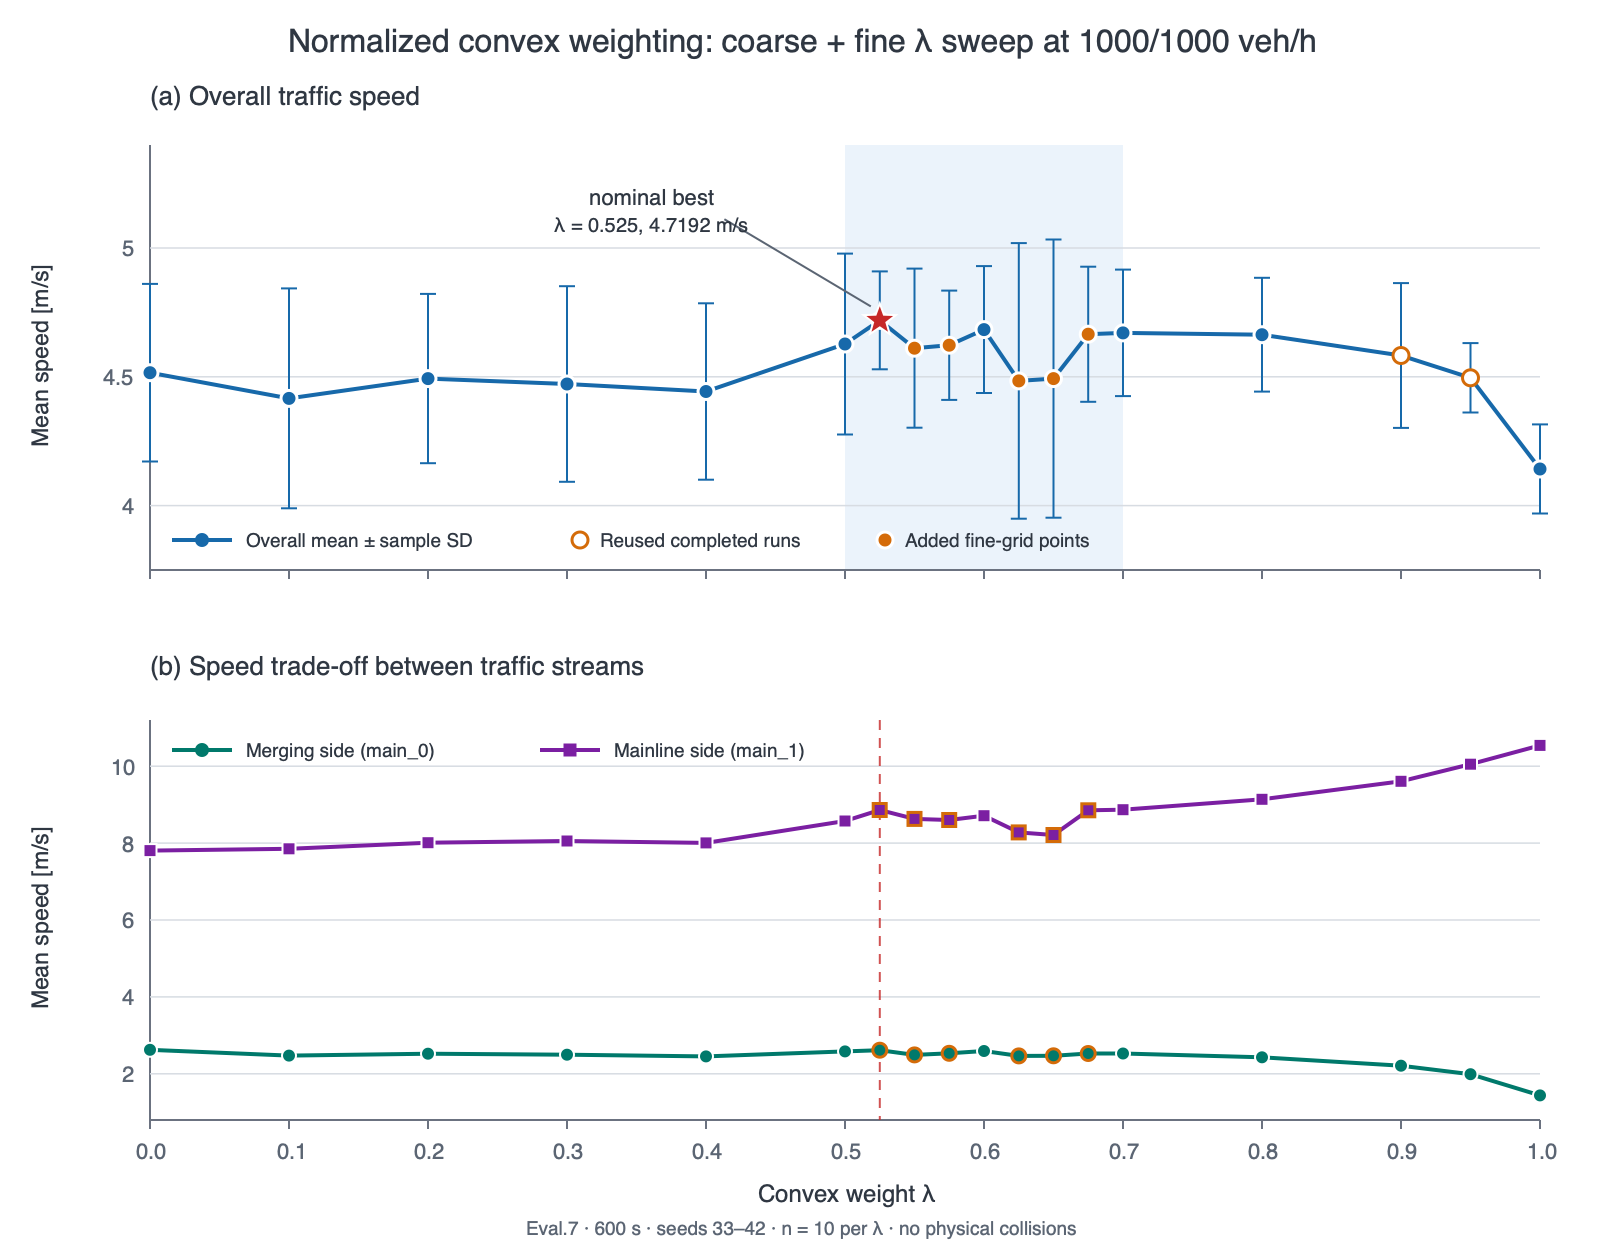
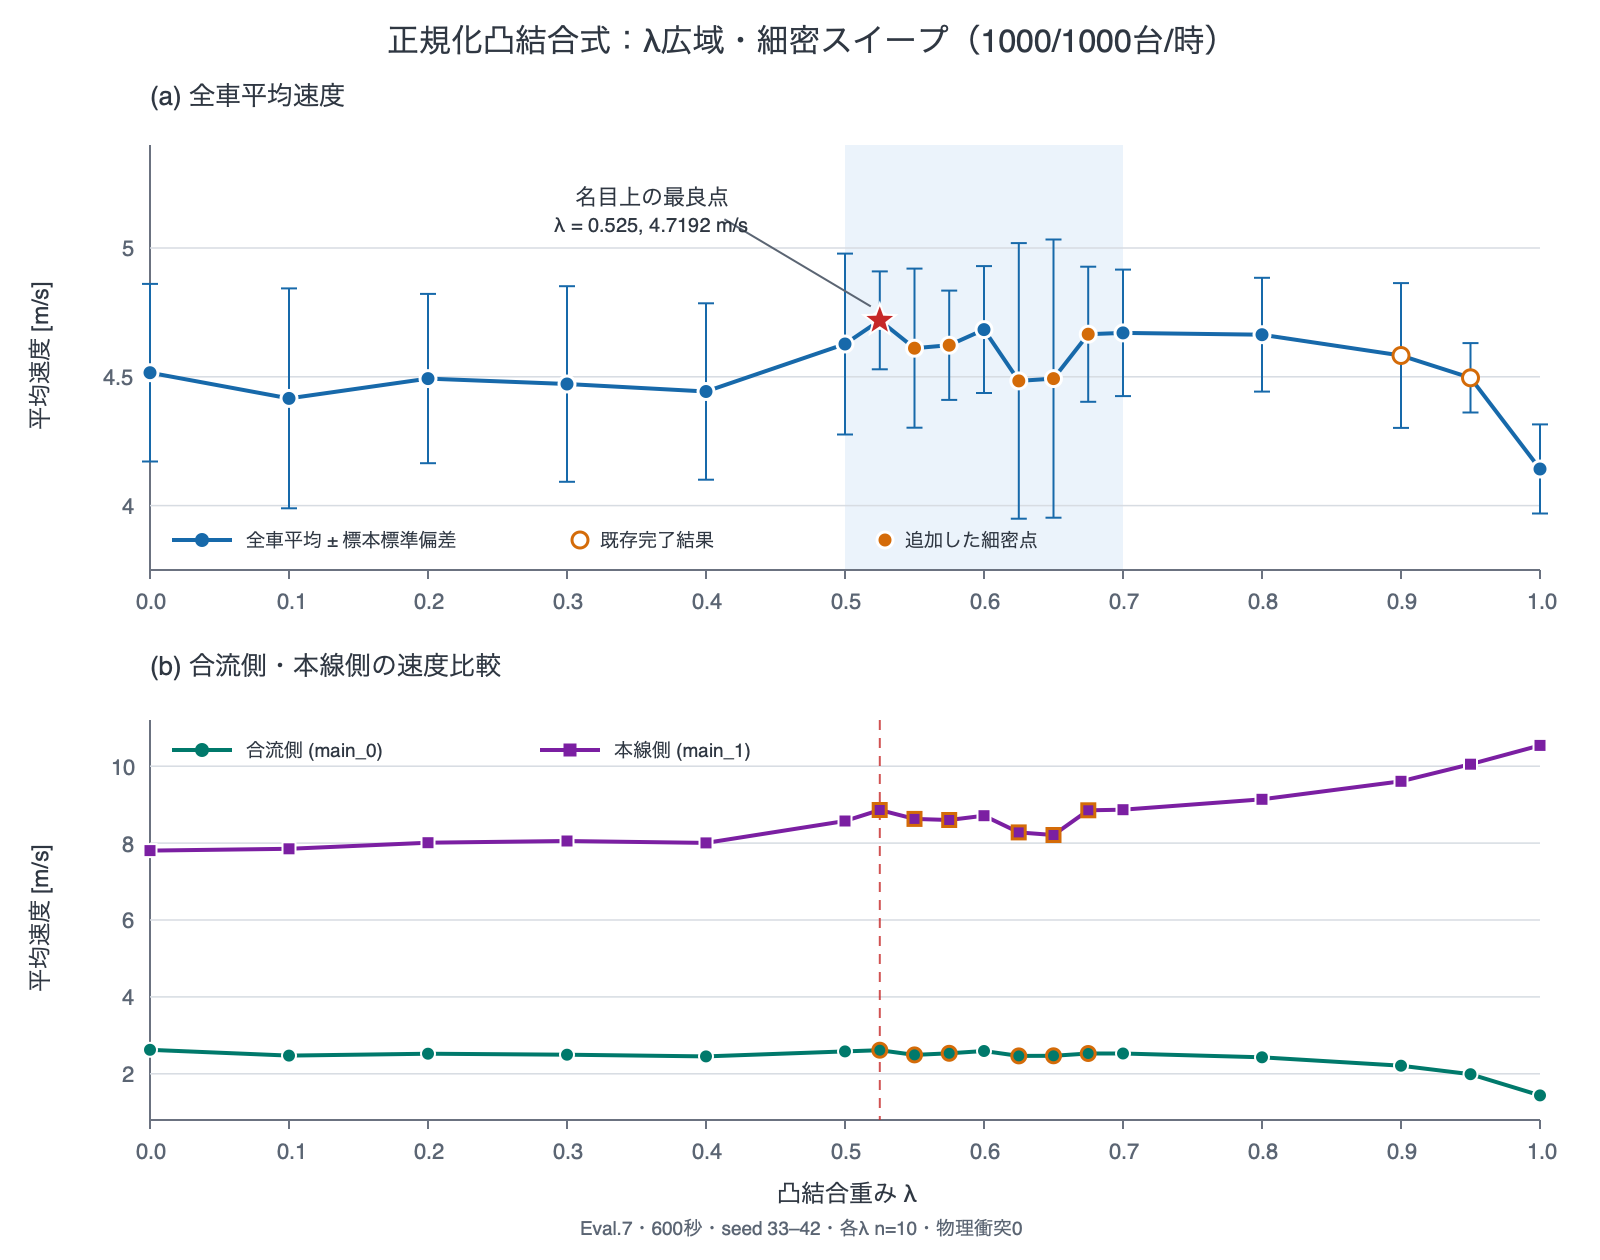
docs: localize combined lambda plot

diff --git a/scripts/plot_lambda_wide_sweep.py b/scripts/plot_lambda_wide_sweep.py
@@ -171,7 +171,7 @@ def render_svg(
         f'<rect x="0" y="0" width="{WIDTH}" height="{HEIGHT}" fill="#FFFFFF"/>',
         '<g font-family="-apple-system, BlinkMacSystemFont, Segoe UI, Helvetica, Arial, sans-serif">',
         svg_text(
-            "Normalized convex weighting: coarse + fine λ sweep at 1000/1000 veh/h"
+            "正規化凸結合式：λ広域・細密スイープ（1000/1000台/時）"
             if combined
             else "Normalized convex weighting: λ sweep at 1000/1000 veh/h",
             WIDTH / 2,
@@ -180,13 +180,36 @@ def render_svg(
             anchor="middle",
             weight=700,
         ),
-        svg_text("(a) Overall traffic speed", LEFT, 105, size=26, weight=700),
+        svg_text(
+            "(a) 全車平均速度" if combined else "(a) Overall traffic speed",
+            LEFT,
+            105,
+            size=26,
+            weight=700,
+        ),
     ]
     band_x = x_position(0.5)
     band_high = 0.7 if combined else 0.8
     parts.append(f'<rect x="{band_x:.1f}" y="{top_a}" width="{x_position(band_high) - band_x:.1f}" height="{bottom_a - top_a:.1f}" fill="#E8F1FA" opacity="0.85"/>')
-    draw_axes(parts, top=top_a, bottom=bottom_a, y_ticks=[4.0, 4.5, 5.0], y_low=y_a_low, y_high=y_a_high, show_x_labels=False)
-    parts.append(svg_text("Mean speed [m/s]", 48, (top_a + bottom_a) / 2, size=23, anchor="middle", rotate=-90))
+    draw_axes(
+        parts,
+        top=top_a,
+        bottom=bottom_a,
+        y_ticks=[4.0, 4.5, 5.0],
+        y_low=y_a_low,
+        y_high=y_a_high,
+        show_x_labels=combined,
+    )
+    parts.append(
+        svg_text(
+            "平均速度 [m/s]" if combined else "Mean speed [m/s]",
+            48,
+            (top_a + bottom_a) / 2,
+            size=23,
+            anchor="middle",
+            rotate=-90,
+        )
+    )
 
     overall_points = [(x_position(row["lambda"]), y_position(row["overall"], y_a_low, y_a_high, top_a, bottom_a)) for row in rows]
     parts.append(polyline(overall_points, blue))
@@ -212,24 +235,24 @@ def render_svg(
     label_x = x_position(0.36 if combined else 0.43)
     label_y = y_position(5.17, y_a_low, y_a_high, top_a, bottom_a)
     parts.append(f'<line x1="{label_x + 74:.1f}" y1="{label_y + 15:.1f}" x2="{best_x - 9:.1f}" y2="{best_y - 14:.1f}" stroke="#5B6573" stroke-width="2"/>')
-    parts.append(svg_text("nominal best" if combined else "coarse-grid best", label_x, label_y, size=22, anchor="middle", weight=600))
+    parts.append(svg_text("名目上の最良点" if combined else "coarse-grid best", label_x, label_y, size=22, anchor="middle", weight=600))
     best_label = f"{best_lambda:.3f}" if combined else f"{best_lambda:.2f}"
     parts.append(svg_text(f"λ = {best_label}, {best['overall']:.4f} m/s", label_x, label_y + 27, size=20, anchor="middle"))
 
     legend_y = 540
     parts.append(f'<line x1="{LEFT + 22}" y1="{legend_y}" x2="{LEFT + 82}" y2="{legend_y}" stroke="{blue}" stroke-width="4"/>')
     parts.append(f'<circle cx="{LEFT + 52}" cy="{legend_y}" r="7" fill="{blue}"/>')
-    parts.append(svg_text("Overall mean ± sample SD", LEFT + 96, legend_y + 7, size=19))
+    parts.append(svg_text("全車平均 ± 標本標準偏差" if combined else "Overall mean ± sample SD", LEFT + 96, legend_y + 7, size=19))
     parts.append(f'<circle cx="{LEFT + 430}" cy="{legend_y}" r="8" fill="white" stroke="{orange}" stroke-width="3"/>')
-    parts.append(svg_text("Reused completed runs", LEFT + 450, legend_y + 7, size=19))
+    parts.append(svg_text("既存完了結果" if combined else "Reused completed runs", LEFT + 450, legend_y + 7, size=19))
     if combined:
         parts.append(f'<circle cx="{LEFT + 735}" cy="{legend_y}" r="8" fill="{orange}" stroke="white" stroke-width="3"/>')
-        parts.append(svg_text("Added fine-grid points", LEFT + 755, legend_y + 7, size=19))
+        parts.append(svg_text("追加した細密点", LEFT + 755, legend_y + 7, size=19))
 
-    parts.append(svg_text("(b) Speed trade-off between traffic streams", LEFT, 675, size=26, weight=700))
+    parts.append(svg_text("(b) 合流側・本線側の速度比較" if combined else "(b) Speed trade-off between traffic streams", LEFT, 675, size=26, weight=700))
     draw_axes(parts, top=top_b, bottom=bottom_b, y_ticks=[2, 4, 6, 8, 10], y_low=y_b_low, y_high=y_b_high, show_x_labels=True)
-    parts.append(svg_text("Mean speed [m/s]", 48, (top_b + bottom_b) / 2, size=23, anchor="middle", rotate=-90))
-    parts.append(svg_text("Convex weight λ", (LEFT + RIGHT) / 2, bottom_b + 82, size=24, anchor="middle"))
+    parts.append(svg_text("平均速度 [m/s]" if combined else "Mean speed [m/s]", 48, (top_b + bottom_b) / 2, size=23, anchor="middle", rotate=-90))
+    parts.append(svg_text("凸結合重み λ" if combined else "Convex weight λ", (LEFT + RIGHT) / 2, bottom_b + 82, size=24, anchor="middle"))
     parts.append(f'<line x1="{best_x:.1f}" y1="{top_b}" x2="{best_x:.1f}" y2="{bottom_b}" stroke="{red}" stroke-width="2" stroke-dasharray="10 8" opacity="0.8"/>')
 
     merge_points = [(x_position(row["lambda"]), y_position(row["merge"], y_b_low, y_b_high, top_b, bottom_b)) for row in rows]
@@ -246,11 +269,11 @@ def render_svg(
 
     parts.append(f'<line x1="{LEFT + 22}" y1="{top_b + 30}" x2="{LEFT + 82}" y2="{top_b + 30}" stroke="{green}" stroke-width="4"/>')
     parts.append(f'<circle cx="{LEFT + 52}" cy="{top_b + 30}" r="7" fill="{green}"/>')
-    parts.append(svg_text("Merging side (main_0)", LEFT + 96, top_b + 37, size=19))
+    parts.append(svg_text("合流側 (main_0)" if combined else "Merging side (main_0)", LEFT + 96, top_b + 37, size=19))
     parts.append(f'<line x1="{LEFT + 390}" y1="{top_b + 30}" x2="{LEFT + 450}" y2="{top_b + 30}" stroke="{purple}" stroke-width="4"/>')
     parts.append(f'<rect x="{LEFT + 413.5}" y="{top_b + 23.5}" width="13" height="13" fill="{purple}"/>')
-    parts.append(svg_text("Mainline side (main_1)", LEFT + 464, top_b + 37, size=19))
-    parts.append(svg_text("Eval.7 · 600 s · seeds 33–42 · n = 10 per λ · no physical collisions", WIDTH / 2, 1235, size=19, anchor="middle", fill="#5B6573"))
+    parts.append(svg_text("本線側 (main_1)" if combined else "Mainline side (main_1)", LEFT + 464, top_b + 37, size=19))
+    parts.append(svg_text("Eval.7・600秒・seed 33–42・各λ n=10・物理衝突0" if combined else "Eval.7 · 600 s · seeds 33–42 · n = 10 per λ · no physical collisions", WIDTH / 2, 1235, size=19, anchor="middle", fill="#5B6573"))
     parts.extend(["</g>", "</svg>"])
     return "\n".join(parts) + "\n"
 
